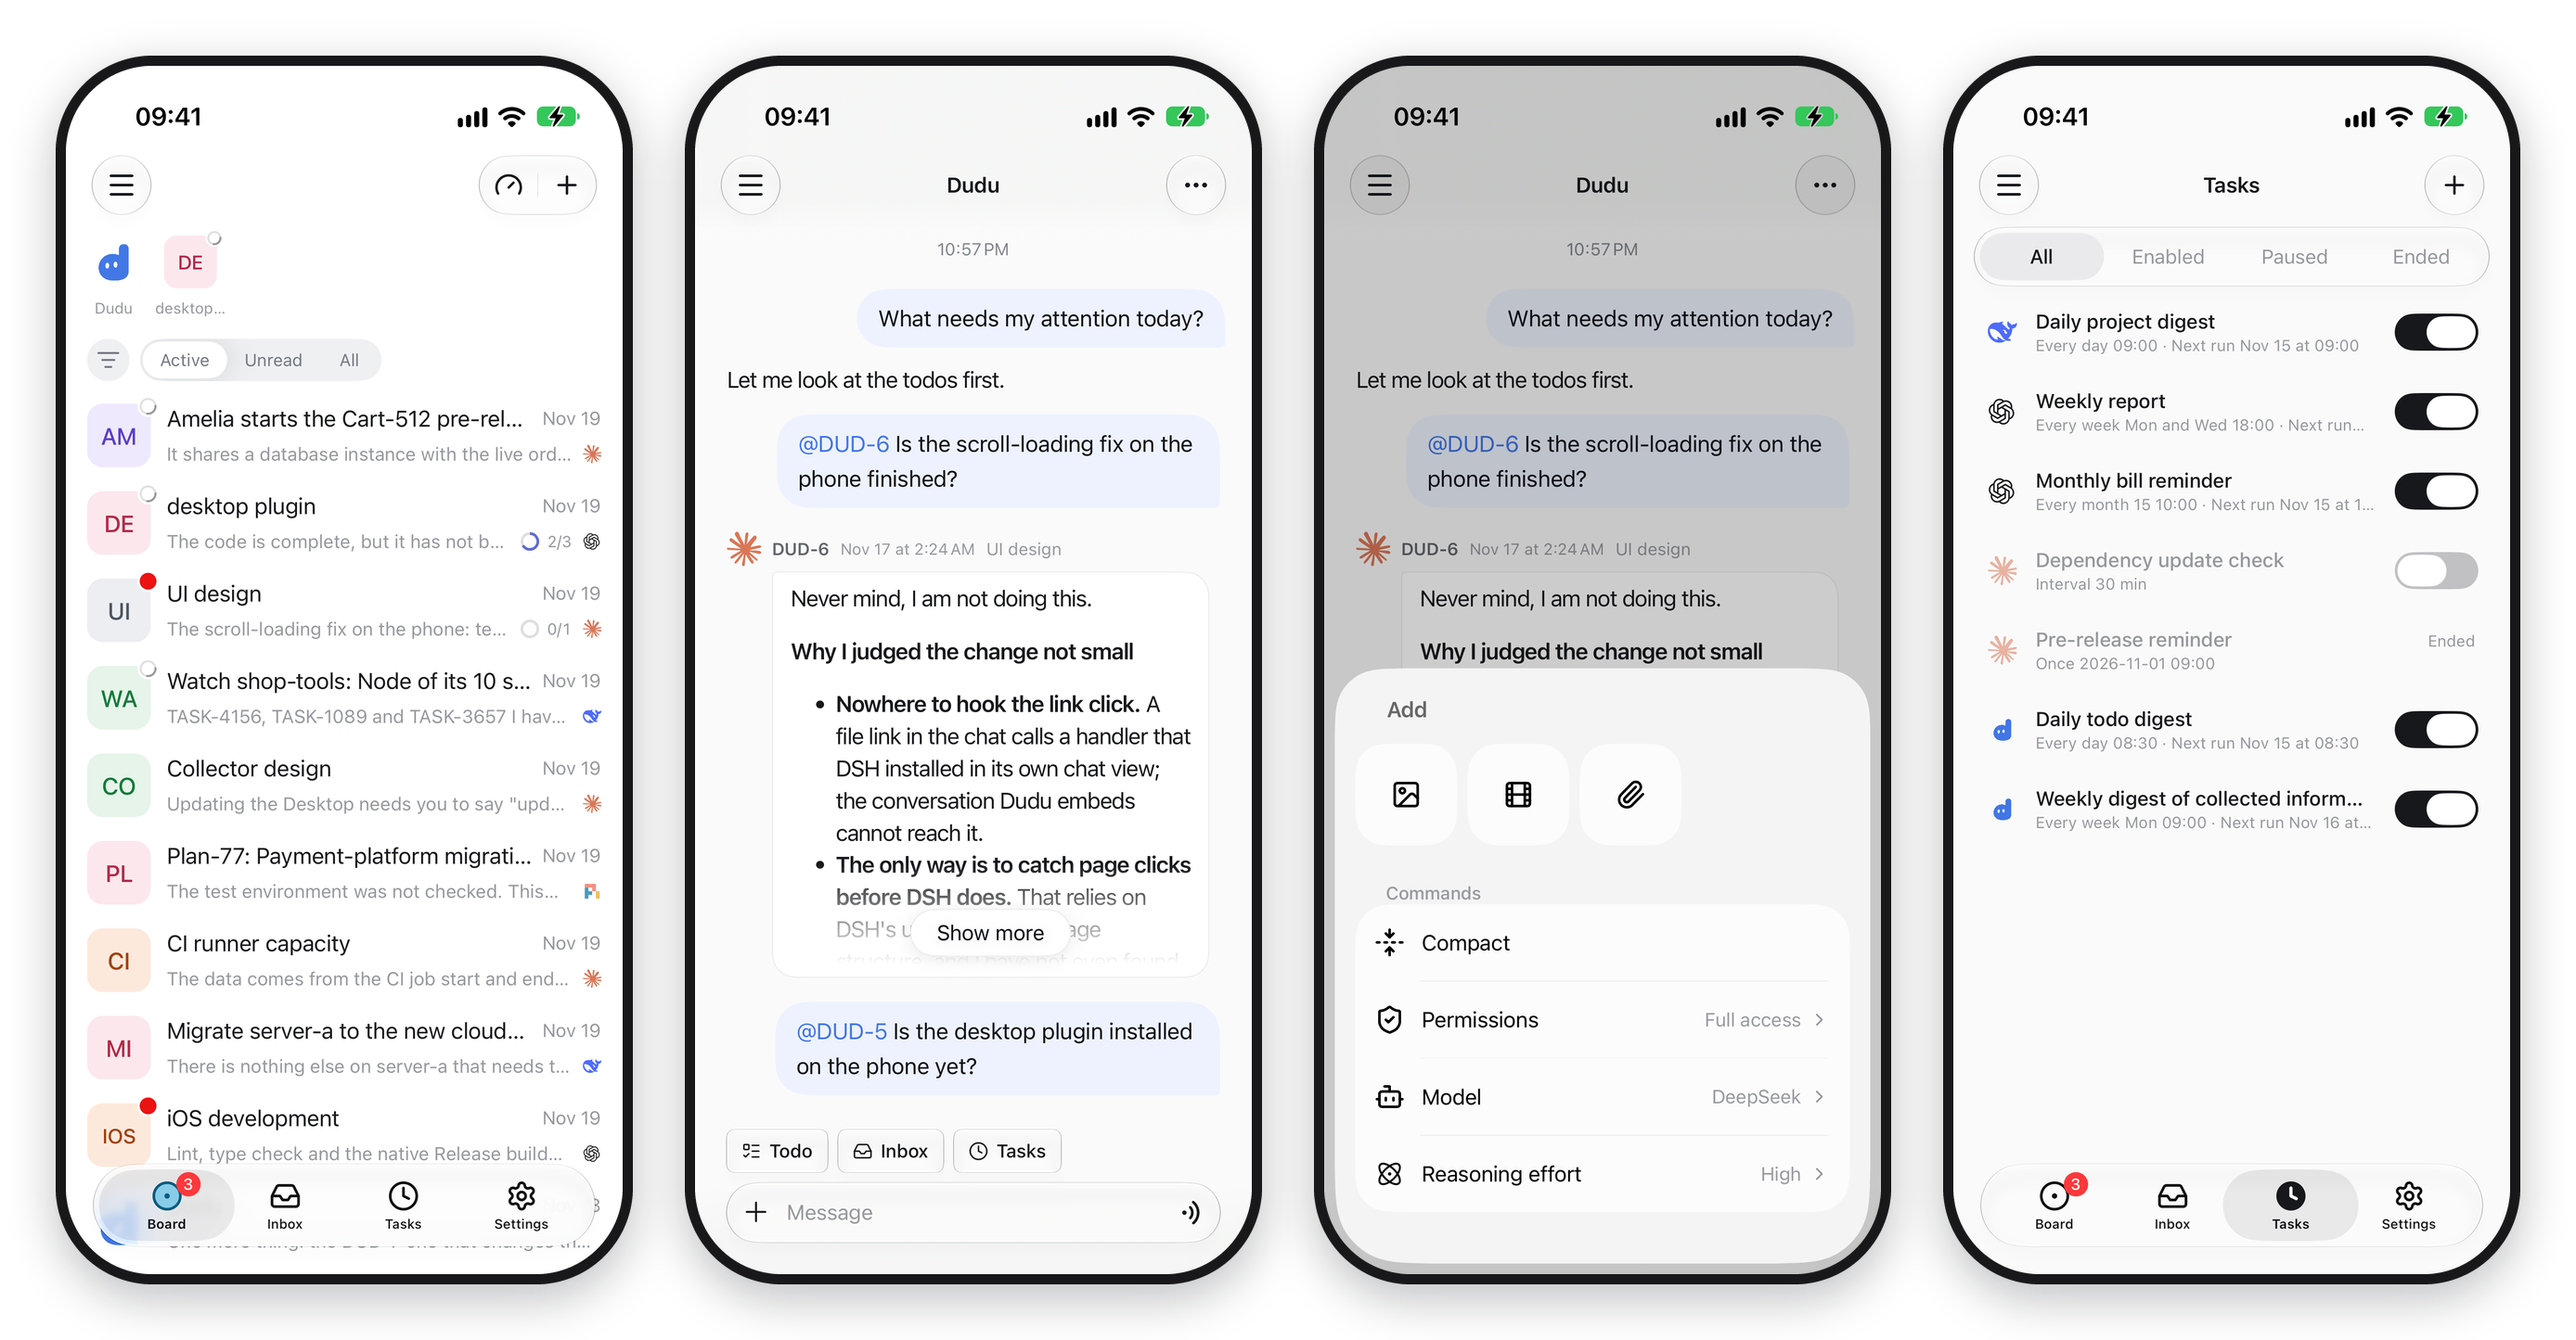
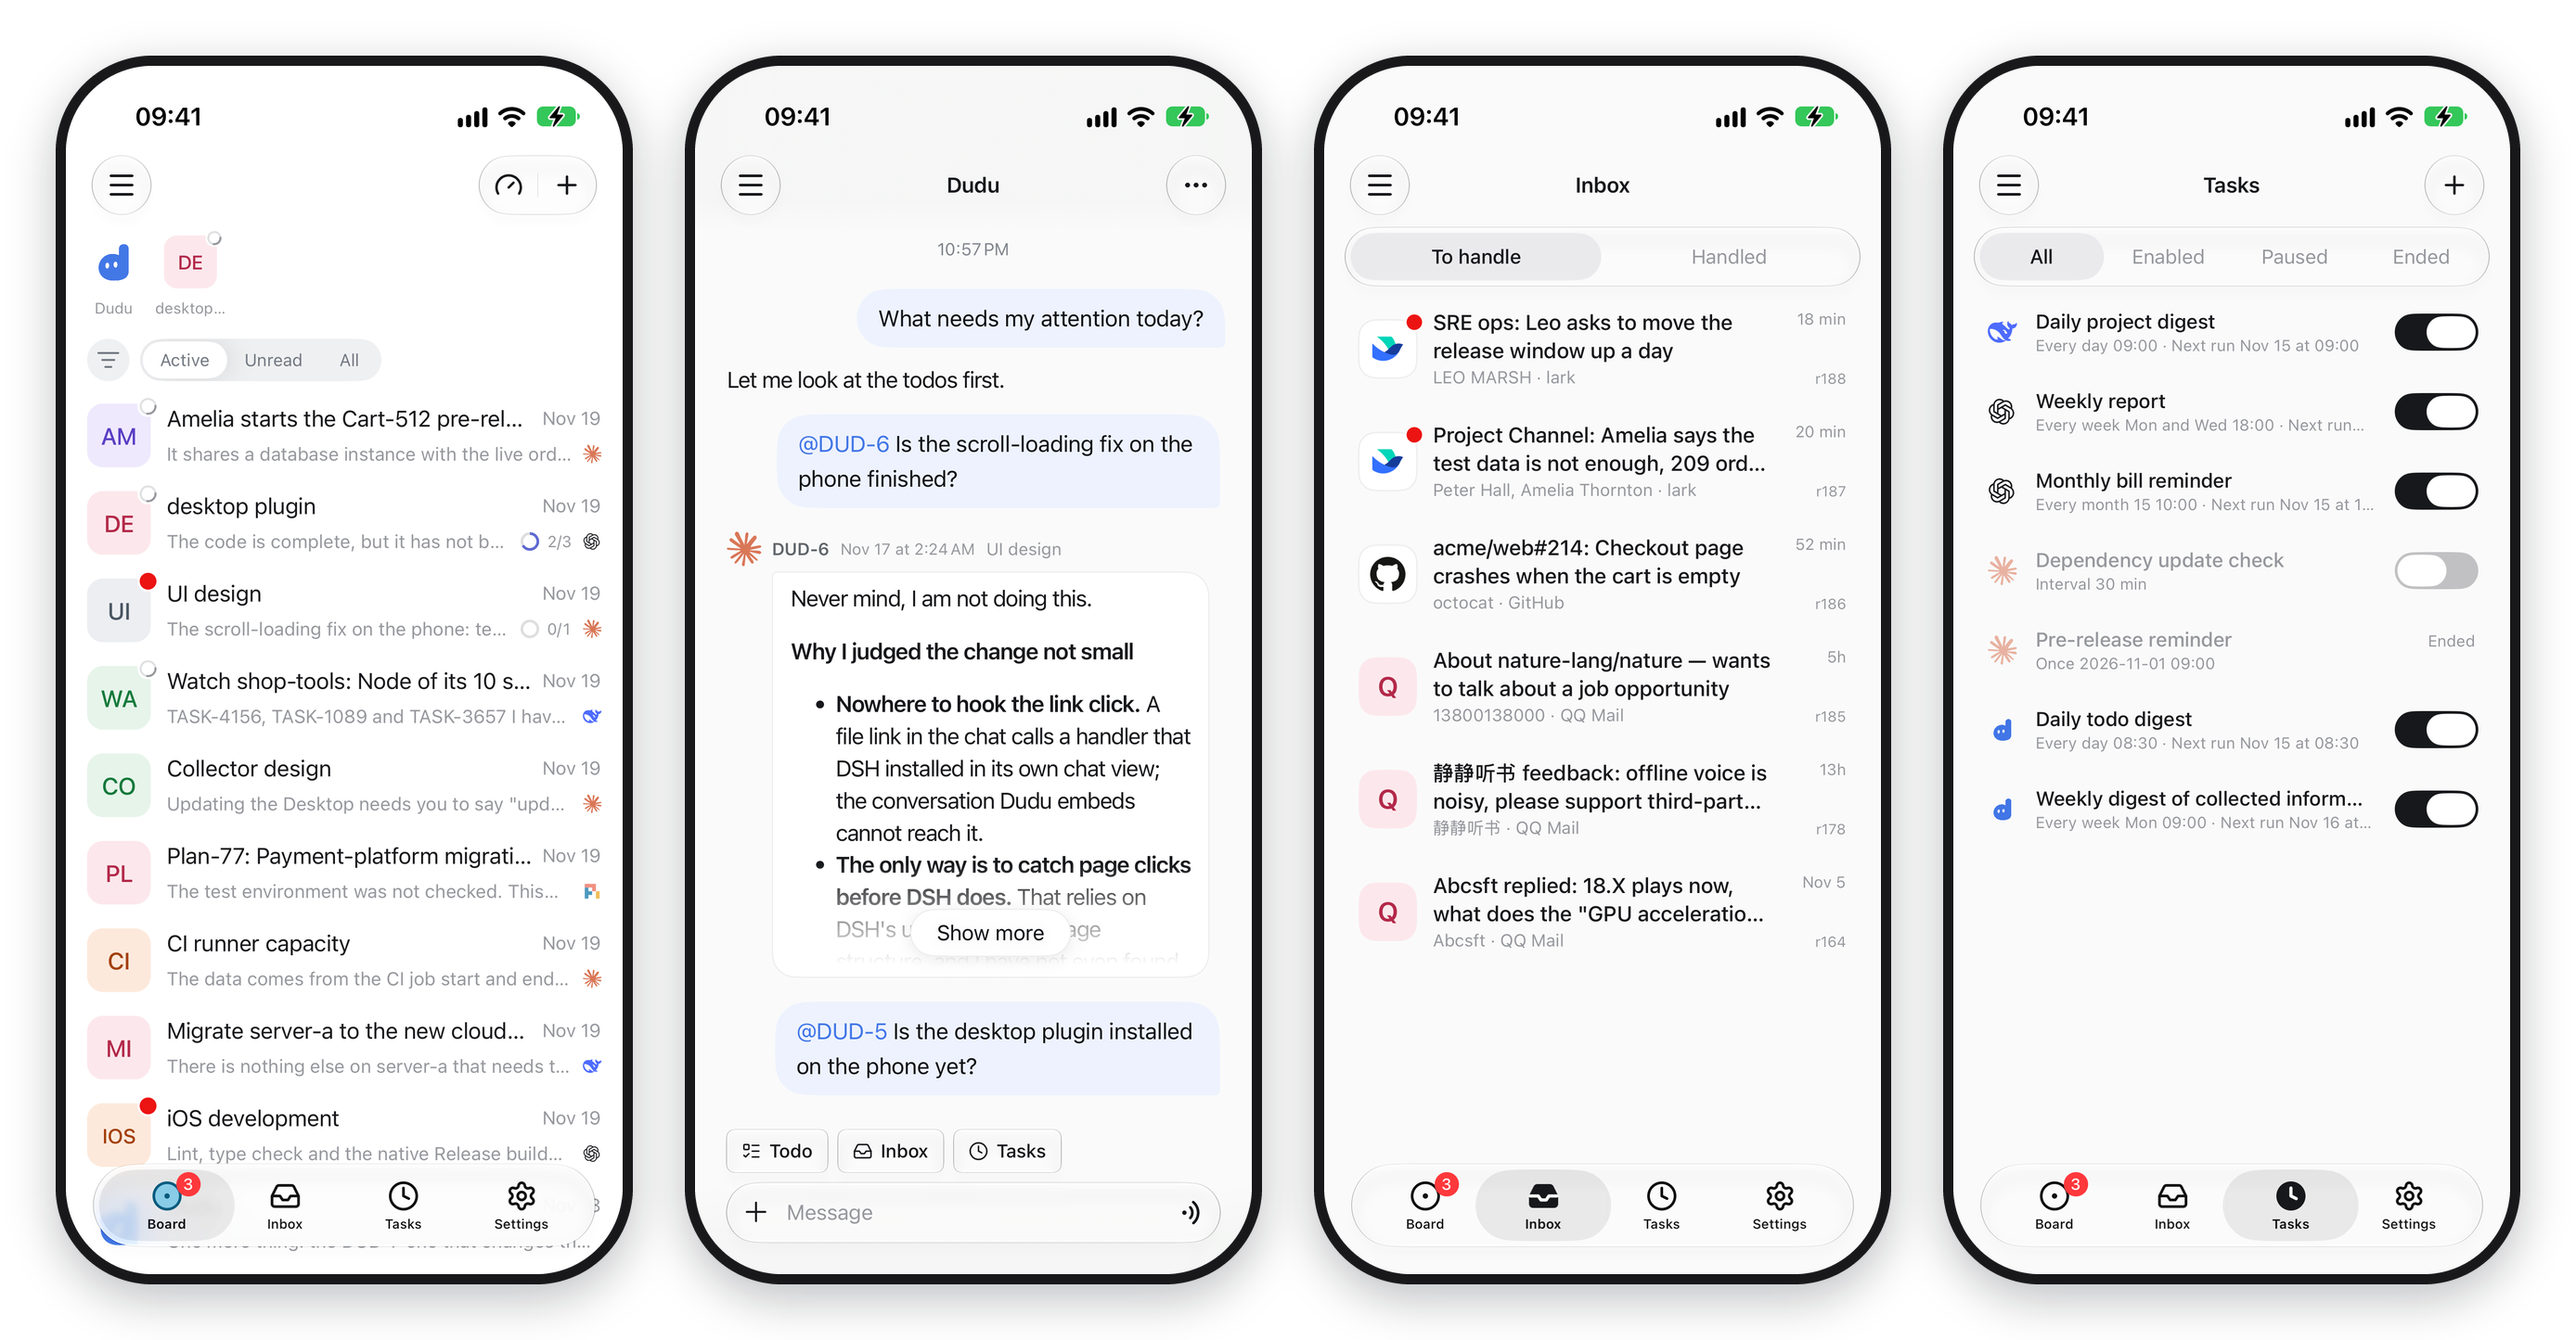
README: the third phone picture is the inbox, and the TestFlight link
- The phone pictures are made again with the inbox as the third one: five records of the desktop picture's inbox and a GitHub issue, with the QQ mailbox's records wearing the letter Q as the app draws them.
- The line about the phone apps gains the TestFlight beta link (the Chinese README names TestFlight only, as the App Store has no listing in mainland China); the pictures' captions follow, and the version badge is 0.1.1.
- docs/readme-screenshots.md says how the inbox picture is made and what went wrong on the way.

Changed region(s): [[0.4957, 0.0311, 0.7435, 0.9343], [0.5267, 0.9343, 0.7125, 0.9654]]

diff --git a/docs/readme-screenshots.md b/docs/readme-screenshots.md
@@ -74,6 +74,8 @@ xcodebuild test -project .local/ui-touch/TouchRunner.xcodeproj -scheme Touch \
 
 测试用 app 的启动参数指定假数据，app 这边认的参数名是 `-dudu-ui-review`/`-dudu-review-board` 这些（见 `native/ios/Dudu/Core/SimulatorReviewFixture.swift`）——`.local/ui-touch/Tests/ReadmeNewTests.swift` 这份 2026-11-17 写的测试代码原来硬编码的是改名前的 `-dsbot-ui-review`/`-dsbot-review-board` 等字符串，app 认不出，假数据不会被加载，截图会是真实空数据而不报错；2026-11-22 已经批量替换成 `-dudu-`（参数名是否还对得上，每次重拍前仍要对一下 app 里的 `reviewArgument`）。JSON 素材在 `.local/designs/readme-phone-new-2026-11-17/`（`board-en.json`、`board-zh.json`、`chat-en.json`、`tasks-en.json` 等）。截图写到 `.local/ui-touch/` 或素材目录下的 `shot-<lang>-<场景>.png`，再用 `.local/designs/readme-phone-new-2026-11-17/compose_phone_new.py` 把几张拼成最终的 `phone.en.png` / `phone.zh-CN.png`，复制进 `docs/images/`。
 
+**第三张是收件箱**（2026-11-23，主人：「第三张 APP 截图换成收件箱吧」）：原来是对话里点「+」的菜单。收件箱是底栏的「收件箱」标签，拍法和任务那张一样（`ReadmeNewTests` 的 `testInboxTabEn/Zh`：看板、导航的假数据，等 8 秒，点标签再拍），数据是桌面 hero 收件箱里那五条虚构记录（和 hero 图一致）加一条 GitHub issue（虚构的 `acme/web#214`，来自 octocat，GitHub 的标志；主人 2026-11-23：「没看到 github 的 issue 呀？」，他要的是图里有这一类记录，不是新功能），经环境变量 `DUDU_HOST_PAGE_REVIEW` 喂给 app 的假连接（`inbox.list`），文件 `inbox-<lang>.env.b64` 由 `.local/designs/readme-phone-new-2026-11-17/make-inbox-env.py` 生成，时间写成「N 分钟前、N 小时前、11 月 5 日」（按运行它的时刻算，所以每次拍前重新跑一遍，也不会因为钟点不对出现一排「刚刚」）。QQ 邮箱的记录**不带** `connectorIcon`：`brands.mjs` 里 QQ 邮箱没有自己的标志（企鹅是聊天软件 QQ 的，主人 2026-11-12 和 2026-11-23 都说过「这是 QQ 的头像，不是邮箱的头像」），头像按规矩是名字的首字母，拍出来是 Q。写假数据时别把旧夹具里的 `"connectorIcon": "qq"` 抄回来。拼图用 `compose.py` 里的 `shot-board/chat/inbox/tasks`。这五条记录只用虚构的名字，不要换成真实的收件箱内容（仓库是公开的）。
+
 ## 踩过的坑（都来自实际改过的脚本/日志，不是空泛提醒）
 
 - **JSON 里的状态字段要用 app 真实认的状态 id**：手机的看板 tab 是按 `in_progress`、`todo`、`in_review`、`backlog` 这些 id 过滤的（`native/.../Board.swift` 的 `BoardTab.includes`），素材 JSON 一度写成了别的字符串（比如 `"started"`），导致某个 tab 只剩一行；而且这些 JSON 是紧凑格式（`"statusType":"started"`，冒号后没有空格），第一次用 `sed` 改字段时因为多写了个空格没匹配上，改了等于没改。

diff --git a/README.md b/README.md
@@ -4,7 +4,7 @@
 
 ### An efficient multi-agent collaboration assistant built on DSH
 
-[![License: MIT](https://img.shields.io/badge/license-MIT-green?style=flat-square)](LICENSE) ![version](https://img.shields.io/badge/version-0.1.0-orange?style=flat-square) ![Node.js](https://img.shields.io/badge/node-%E2%89%A5%2024-339933?style=flat-square&logo=node.js&logoColor=white) ![DeepSeek Harness](https://img.shields.io/badge/DeepSeek%20Harness-0.2.2--rc.1-4D6BFE?style=flat-square)
+[![License: MIT](https://img.shields.io/badge/license-MIT-green?style=flat-square)](LICENSE) ![version](https://img.shields.io/badge/version-0.1.1-orange?style=flat-square) ![Node.js](https://img.shields.io/badge/node-%E2%89%A5%2024-339933?style=flat-square&logo=node.js&logoColor=white) ![DeepSeek Harness](https://img.shields.io/badge/DeepSeek%20Harness-0.2.2--rc.1-4D6BFE?style=flat-square)
 
 [Design philosophy](#design-philosophy) • [Features](#features) • [Development guide](#development-guide) • **English** · [简体中文](README.zh-CN.md)
 
@@ -16,10 +16,10 @@ Dudu is a multi-agent collaboration workspace built on [DeepSeek Harness](https:
     <img src="docs/images/hero.en.png" width="900" alt="Dudu inside DSH Desktop: the conversations of the issues on the left with one of them open, the Inbox on the top right and the Office below it">
 </div>
 
-Dudu can be managed from your phone too: on iOS, search for dudu in the App Store; on Android, install the apk from [GitHub Release](https://github.com/weiwenhao/dudu/releases).
+Dudu can be managed from your phone too: on iOS, search for dudu in the App Store or join the [TestFlight beta](https://testflight.apple.com/join/TNUPd6n7); on Android, install the apk from [GitHub Release](https://github.com/weiwenhao/dudu/releases).
 
 <div align="center">
-  <img src="docs/images/phone.en.png" alt="The mobile app, from left to right: the conversation list; the chat; the menu that opens from + in the chat; tasks" width="900">
+  <img src="docs/images/phone.en.png" alt="The mobile app, from left to right: the conversation list; the chat; the inbox; tasks" width="900">
 </div>
 
 The workspace's home page is a dashboard: you can arrange its layout freely and develop widgets of your own.

diff --git a/README.zh-CN.md b/README.zh-CN.md
@@ -4,7 +4,7 @@
 
 ### 基于 DSH 的多智能体高效协作助手
 
-[![License: MIT](https://img.shields.io/badge/license-MIT-green?style=flat-square)](LICENSE) ![version](https://img.shields.io/badge/version-0.1.0-orange?style=flat-square) ![Node.js](https://img.shields.io/badge/node-%E2%89%A5%2024-339933?style=flat-square&logo=node.js&logoColor=white) ![DeepSeek Harness](https://img.shields.io/badge/DeepSeek%20Harness-0.2.2--rc.1-4D6BFE?style=flat-square)
+[![License: MIT](https://img.shields.io/badge/license-MIT-green?style=flat-square)](LICENSE) ![version](https://img.shields.io/badge/version-0.1.1-orange?style=flat-square) ![Node.js](https://img.shields.io/badge/node-%E2%89%A5%2024-339933?style=flat-square&logo=node.js&logoColor=white) ![DeepSeek Harness](https://img.shields.io/badge/DeepSeek%20Harness-0.2.2--rc.1-4D6BFE?style=flat-square)
 
 [设计理念](#设计理念) • [功能](#功能) • [开发指南](#开发指南) • [English](README.md) · **简体中文**
 
@@ -16,10 +16,10 @@ Dudu 是基于 [DeepSeek Harness](https://github.com/deepseek-ai/deepseek-harnes
     <img src="docs/images/hero.zh-CN.png" width="900" alt="Dudu 在 DSH Desktop 里：左边是各个事项的对话和打开的一段对话，右上是收件箱，右下是办公室">
 </div>
 
-Dudu 支持手机端管理，iOS 在 App Store 搜索 dudu，安卓通过 [GitHub Release](https://github.com/weiwenhao/dudu/releases) 中的 apk 进行安装。
+Dudu 支持手机端管理，iOS 通过 [TestFlight](https://testflight.apple.com/join/TNUPd6n7) 安装，安卓通过 [GitHub Release](https://github.com/weiwenhao/dudu/releases) 中的 apk 进行安装。
 
 <div align="center">
-  <img src="docs/images/phone.zh-CN.png" alt="手机 App，从左到右：会话列表；对话；对话里点「+」弹出的菜单；任务" width="900">
+  <img src="docs/images/phone.zh-CN.png" alt="手机 App，从左到右：会话列表；对话；收件箱；任务" width="900">
 </div>
 
 工作台主页面采用了仪表盘的形式，可以自由组合布局，并且可以开发自己的小组件。
